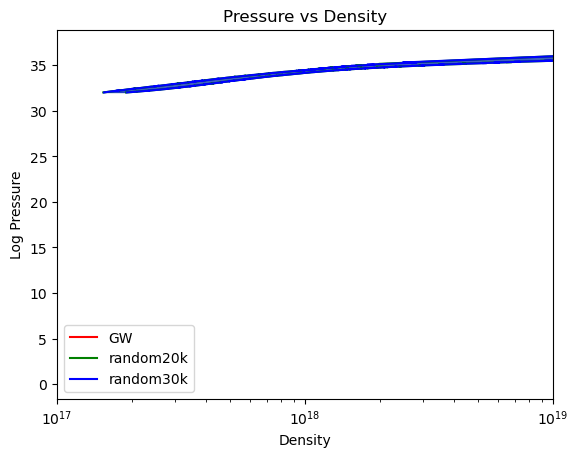
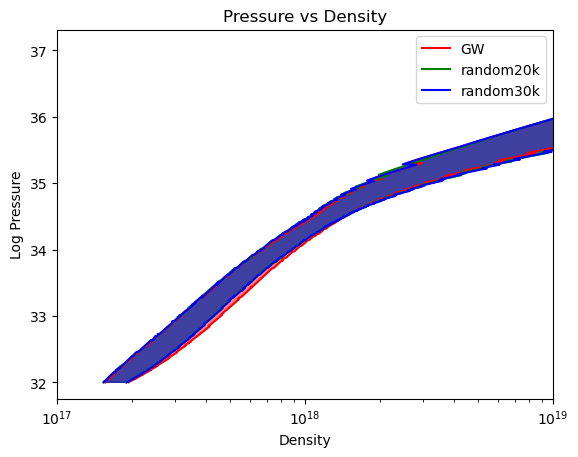
Second try on those joint_sample_p_rho plots

diff --git a/joint_inference/development/multiple_confidence_interval.py b/joint_inference/development/multiple_confidence_interval.py
@@ -16,20 +16,13 @@ def plot_intervals(outputfile):
 #    labels = ["EM_switch", "EM_reweight"]
 #    colors = ["black", "yellow"]
 
-    Files = ["run_data/thinned_GW_spectral_samples.txt","run_data/spectral_p_vs_rho_GW_EM_joint_samples1.txt","run_data/spectral_p_vs_rho_GW_EM_joint_samples2.txt"]
+    Files = ["run_data/spectral_p_vs_rho_thinned_GW_confidence.txt","run_data/spectral_p_vs_rho_GW_EM_joint_samples1.txt","run_data/spectral_p_vs_rho_GW_EM_joint_samples2.txt"]
     labels = ["GW", "random20k", "random30k"]
     colors = ["red", "green", "blue"]
 
-    failsafe = 0
     for File, label, color in zip(Files,labels,colors):
 
-        if failsafe == 0:
-            logp_grid, lower_bound, median, upper_bound, _ = np.loadtxt(File).T
-        
-        else:
-            logp_grid, lower_bound, median, upper_bound = np.loadtxt(File).T
-
-        failsafe += 1
+        logp_grid, lower_bound, median, upper_bound = np.loadtxt(File).T
 
         ax1 = pl.gca()
         ax1.set_xscale("log")
